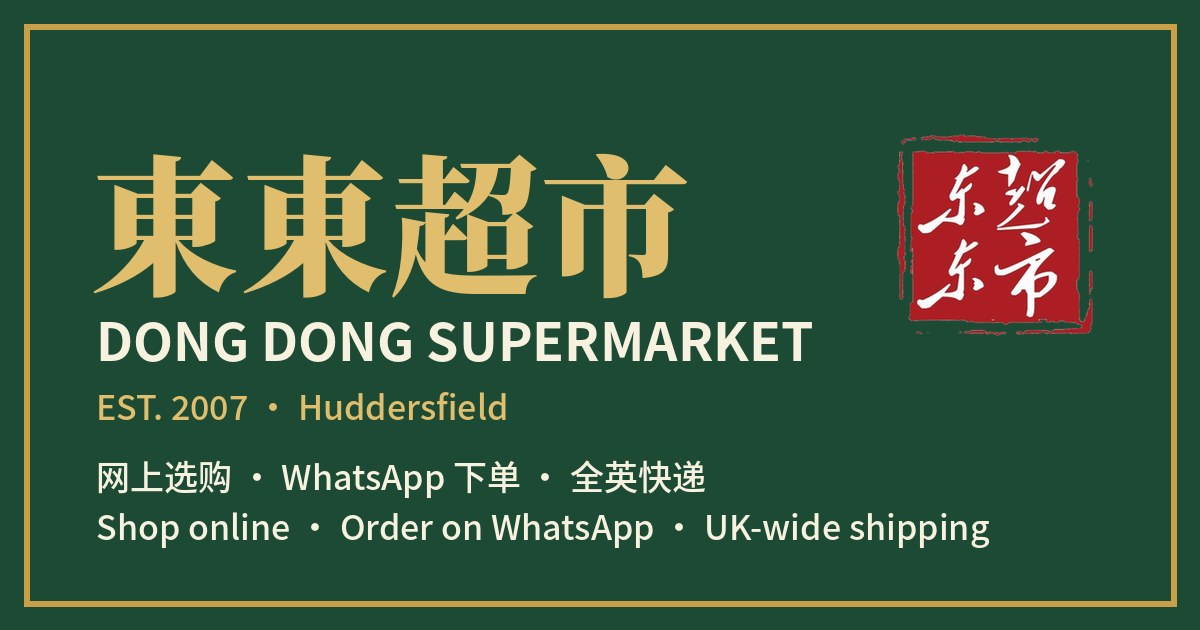
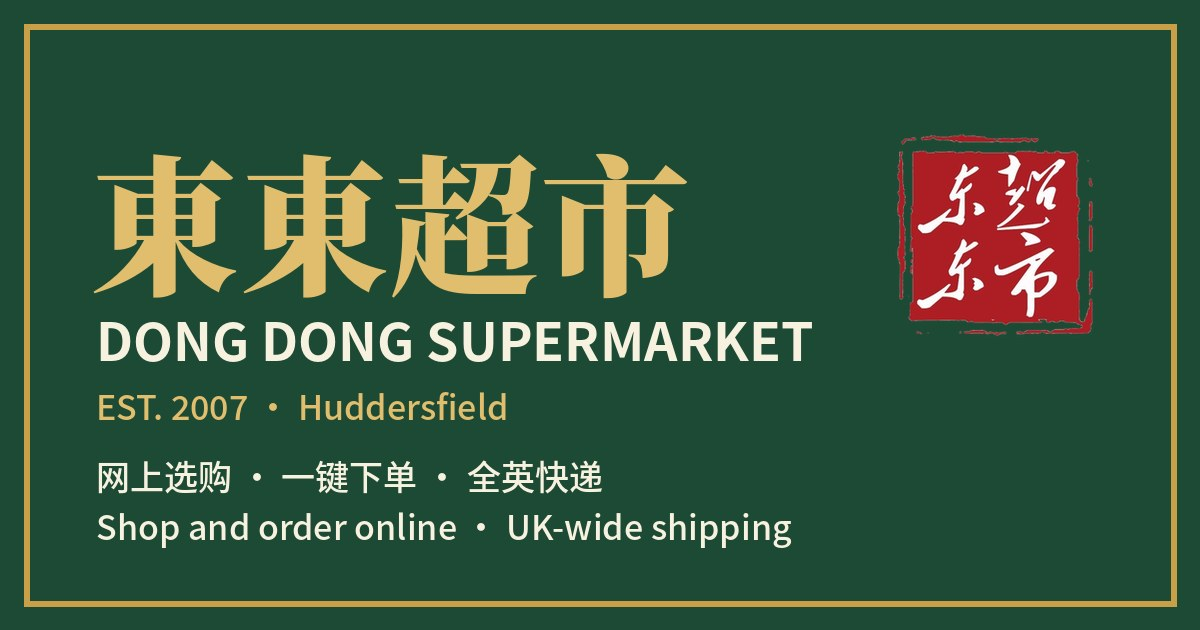
下单说法统一：网上下单、一键下单、订单自动填好
Claude-Session: https://claude.ai/code/session_01EapkdAZuY1J5DZKGNmtVd8

Changed region(s): [[0.1542, 0.8143, 0.8325, 0.8746], [0.2158, 0.7238, 0.5858, 0.7841]]

diff --git a/index.html b/index.html
@@ -4,7 +4,7 @@
 <meta charset="utf-8">
 <meta name="viewport" content="width=device-width,initial-scale=1,viewport-fit=cover">
 <title>東東超市 Dong Dong Supermarket · Huddersfield</title>
-<meta name="description" content="東東超市 Dong Dong Supermarket，Huddersfield 亚洲超市，始于 2007。网上看商品和价格，WhatsApp 下单，到店自取、本地送货、全英快递。Asian supermarket in Huddersfield since 2007 — browse online, order on WhatsApp, collect, local delivery or UK-wide shipping.">
+<meta name="description" content="東東超市 Dong Dong Supermarket，Huddersfield 亚洲超市，始于 2007。网上看商品和价格，网上一键下单，到店自取、本地送货、全英快递。Asian supermarket in Huddersfield since 2007 — browse and order online, collect, local delivery or UK-wide shipping.">
 <link rel="canonical" href="https://dongdong.co.uk/">
 <link rel="icon" type="image/png" href="favicon.png?v=2">
 <link rel="apple-touch-icon" href="apple-touch-icon.png?v=2">
@@ -14,7 +14,7 @@
 <meta property="og:type" content="website">
 <meta property="og:site_name" content="東東超市 Dong Dong Supermarket">
 <meta property="og:title" content="東東超市 Dong Dong Supermarket · Huddersfield">
-<meta property="og:description" content="网上选购 · WhatsApp 下单 · 全英快递 | Shop online, order on WhatsApp, UK-wide shipping">
+<meta property="og:description" content="网上选购 · 一键下单 · 全英快递 | Shop and order online, UK-wide shipping">
 <meta property="og:url" content="https://dongdong.co.uk/">
 <meta property="og:image" content="https://dongdong.co.uk/og-image.jpg">
 <meta property="og:image:width" content="1200"><meta property="og:image:height" content="630">
@@ -505,8 +505,8 @@ legend{font-family:var(--en-display);font-size:13px;letter-spacing:.1em;text-tra
     <h2><span class="lz">商品与价格</span> <span class="le en">Products &amp; Prices</span></h2>
     <label class="search"><input id="q" type="search" placeholder="搜索商品 Search products" aria-label="搜索商品 Search products"></label>
   </div>
-  <p class="howto"><span><b><span class="lz">WhatsApp 下单</span><span class="leo">Order on WhatsApp:</span></b><span class="lb"> Order on WhatsApp：</span><span class="lz lzc">：</span></span><span>① <span class="lz">选商品加入购物车</span> <span class="le">Add items</span></span><span>② <span class="lz">选到店自取或送货</span> <span class="le">Pickup or delivery</span></span><span>③ <span class="lz">发送订单，我们回复确认</span> <span class="le">Send, we'll confirm</span></span><span class="nopill">✓ <span class="lz">无需注册 · 无需下载 App · 无需提供任何银行信息</span><span class="lb"> · </span><span class="le">No sign-up · No app download · No bank or card details needed</span></span></p>
-  <details class="help" id="help"><summary><span class="lz">第一次下单？查看详细步骤</span><span class="lb"> · </span><span class="le">First time? See how to order</span></summary><ol class="hsteps"><li><b class="hs"><span class="lz">打开网站</span><span class="lb"> · </span><span class="le">Open the website</span></b><span class="lz blk">用手机扫店里的二维码，或在浏览器输入 <b>dongdong.co.uk</b>。右上方可以选择 中文 / English / 中英双语。</span><span class="le blk">Scan the QR code in store or type <b>dongdong.co.uk</b> in your browser. Choose 中文, English or both at the top.</span></li><li><b class="hs"><span class="lz">找到商品</span><span class="lb"> · </span><span class="le">Find products</span></b><span class="lz blk">左边选分区（如调料干货区），点开后选小类（如酱油）。也可以在搜索框里输入中文、拼音或英文，比如“水饺”、“jiaozi”或“dumpling”。点商品图片可以看大图。</span><span class="le blk">Pick a section on the left, then a category. Or search in Chinese, pinyin or English, e.g. "dumpling". Tap a photo to see it bigger.</span></li><li><b class="hs"><span class="lz">加入购物车</span><span class="lb"> · </span><span class="le">Add to basket</span></b><span class="lz blk">点商品下面的“加入购物车”。加入后用 − 和 + 改数量。灰色“售罄”的商品不能加入。</span><span class="le blk">Tap "Add" under the item. Use − and + to change the amount. Items marked "Sold out" can't be added.</span></li><li><b class="hs"><span class="lz">打开购物车</span><span class="lb"> · </span><span class="le">Open your basket</span></b><span class="lz blk">选好后，点屏幕底部绿色条上的“查看购物车”。绿色条上会显示件数、合计，以及还差多少可以免费配送。</span><span class="le blk">When you're done, tap "View basket" on the green bar at the bottom. It shows your total and how much more you need for free delivery.</span></li><li><b class="hs"><span class="lz">选择取货方式</span><span class="lb"> · </span><span class="le">Collection or delivery</span></b><span class="lz blk"><b>到店自取</b>：直接到店付款。<br><b>送货上门</b>：选择送货区域。大学周边学生宿舍满 £15 免费配送，3 英里内满 £40 免费配送，3 英里以外运费在 WhatsApp 商量。金额不够时只能到店自取。</span><span class="le blk"><b>Collect in store</b>: pay when you collect.<br><b>Delivery</b>: choose your area. Free to student halls near the University over £15, free within 3 miles over £40, further away by arrangement. Smaller orders are collection only.</span></li><li><b class="hs"><span class="lz">填写信息</span><span class="lb"> · </span><span class="le">Fill in your details</span></b><span class="lz blk">填写姓名和电话。送货要再填地址、邮编和付款方式。可以写希望的取货或送货时间，以及备注（比如“不要辣的”）。</span><span class="le blk">Enter your name and phone number. For delivery, add your address, postcode and payment method. You can add a preferred time and notes.</span></li><li><b class="hs"><span class="lz">用 WhatsApp 发送</span><span class="lb"> · </span><span class="le">Send on WhatsApp</span></b><span class="lz blk">点“用 WhatsApp 发送订单”，手机会打开 WhatsApp，订单内容已经写好。<b>一定要在 WhatsApp 里再点一次发送 ➤</b>，否则我们收不到订单。</span><span class="le blk">Tap "Send order on WhatsApp". WhatsApp opens with your order ready. <b>Tap send ➤ in WhatsApp</b>, or we won't receive it.</span></li><li><b class="hs"><span class="lz">等待确认</span><span class="lb"> · </span><span class="le">Wait for our reply</span></b><span class="lz blk">我们会在 WhatsApp 上回复确认，订单才算成立。订单开头有订单编号（如 DD-0911-5438），有问题时告诉我们这个编号就行。</span><span class="le blk">Your order is confirmed when we reply on WhatsApp. Quote your order number (e.g. DD-0911-5438) if you have any questions.</span></li></ol><p class="htip"><span class="lz">没有 WhatsApp，或者不会用？可以直接打电话 <b>07546 185999</b>，或到店选购。</span><span class="le blk">No WhatsApp? Call us on <b>07546 185999</b> or visit the shop.</span></p></details>
+  <p class="howto"><span><b><span class="lz">网上下单</span><span class="leo">Order online:</span></b><span class="lb"> Order online：</span><span class="lz lzc">：</span></span><span>① <span class="lz">选商品加入购物车</span> <span class="le">Add items</span></span><span>② <span class="lz">选到店自取或送货</span> <span class="le">Pickup or delivery</span></span><span>③ <span class="lz">一键下单，订单自动填好，我们回复确认</span> <span class="le">One tap to order, we'll confirm</span></span><span class="nopill">✓ <span class="lz">无需注册 · 无需下载 App · 无需提供任何银行信息</span><span class="lb"> · </span><span class="le">No sign-up · No app download · No bank or card details needed</span></span></p>
+  <details class="help" id="help"><summary><span class="lz">第一次下单？查看详细步骤</span><span class="lb"> · </span><span class="le">First time? See how to order</span></summary><ol class="hsteps"><li><b class="hs"><span class="lz">打开网站</span><span class="lb"> · </span><span class="le">Open the website</span></b><span class="lz blk">用手机扫店里的二维码，或在浏览器输入 <b>dongdong.co.uk</b>。右上方可以选择 中文 / English / 中英双语。</span><span class="le blk">Scan the QR code in store or type <b>dongdong.co.uk</b> in your browser. Choose 中文, English or both at the top.</span></li><li><b class="hs"><span class="lz">找到商品</span><span class="lb"> · </span><span class="le">Find products</span></b><span class="lz blk">左边选分区（如调料干货区），点开后选小类（如酱油）。也可以在搜索框里输入中文、拼音或英文，比如“水饺”、“jiaozi”或“dumpling”。点商品图片可以看大图。</span><span class="le blk">Pick a section on the left, then a category. Or search in Chinese, pinyin or English, e.g. "dumpling". Tap a photo to see it bigger.</span></li><li><b class="hs"><span class="lz">加入购物车</span><span class="lb"> · </span><span class="le">Add to basket</span></b><span class="lz blk">点商品下面的“加入购物车”。加入后用 − 和 + 改数量。灰色“售罄”的商品不能加入。</span><span class="le blk">Tap "Add" under the item. Use − and + to change the amount. Items marked "Sold out" can't be added.</span></li><li><b class="hs"><span class="lz">打开购物车</span><span class="lb"> · </span><span class="le">Open your basket</span></b><span class="lz blk">选好后，点屏幕底部绿色条上的“查看购物车”。绿色条上会显示件数、合计，以及还差多少可以免费配送。</span><span class="le blk">When you're done, tap "View basket" on the green bar at the bottom. It shows your total and how much more you need for free delivery.</span></li><li><b class="hs"><span class="lz">选择取货方式</span><span class="lb"> · </span><span class="le">Collection or delivery</span></b><span class="lz blk"><b>到店自取</b>：直接到店付款。<br><b>送货上门</b>：选择送货区域。大学周边学生宿舍满 £15 免费配送，3 英里内满 £40 免费配送，3 英里以外运费在 WhatsApp 商量。金额不够时只能到店自取。</span><span class="le blk"><b>Collect in store</b>: pay when you collect.<br><b>Delivery</b>: choose your area. Free to student halls near the University over £15, free within 3 miles over £40, further away by arrangement. Smaller orders are collection only.</span></li><li><b class="hs"><span class="lz">填写信息</span><span class="lb"> · </span><span class="le">Fill in your details</span></b><span class="lz blk">填写姓名和电话。送货要再填地址、邮编和付款方式。可以写希望的取货或送货时间，以及备注（比如“不要辣的”）。</span><span class="le blk">Enter your name and phone number. For delivery, add your address, postcode and payment method. You can add a preferred time and notes.</span></li><li><b class="hs"><span class="lz">一键下单</span><span class="lb"> · </span><span class="le">Place your order</span></b><span class="lz blk">点“一键下单”，订单会自动填好，不用自己复制。手机会打开 WhatsApp，<b>点一下发送 ➤ 就完成了</b>。</span><span class="le blk">Tap "Place order". Your order is filled in for you, no copying needed. WhatsApp opens: <b>just tap send ➤</b> and you're done.</span></li><li><b class="hs"><span class="lz">等待确认</span><span class="lb"> · </span><span class="le">Wait for our reply</span></b><span class="lz blk">我们会在 WhatsApp 上回复确认，订单才算成立。订单开头有订单编号（如 DD-0911-5438），有问题时告诉我们这个编号就行。</span><span class="le blk">Your order is confirmed when we reply on WhatsApp. Quote your order number (e.g. DD-0911-5438) if you have any questions.</span></li></ol><p class="htip"><span class="lz">没有 WhatsApp，或者不会用？可以直接打电话 <b>07546 185999</b>，或到店选购。</span><span class="le blk">No WhatsApp? Call us on <b>07546 185999</b> or visit the shop.</span></p></details>
   <div class="shop">
   <div class="zones" id="zones" role="group" aria-label="分区 Store sections"></div>
   <div class="shopmain">
@@ -591,8 +591,8 @@ legend{font-family:var(--en-display);font-size:13px;letter-spacing:.1em;text-tra
     <p class="notice" id="alcNote" hidden><span class="lz"><b>购物车里有须年满 18 岁才能购买的商品（如酒类、刀具、燃气罐）。</b>取货或送货时我们可能查看证件，未满 18 岁不予出售。</span><span class="le blk">Your basket contains age-restricted items (such as alcohol, knives or gas canisters). You must be 18 or over. We may ask for ID on collection or delivery.</span></p>
     <p class="notice"><span class="lz"><b>过敏原：</b>如需了解商品的过敏原信息，请在下单前联系我们 07546 185999。</span><span class="le blk">For allergen information on any product, please contact us before ordering.</span></p>
     <p class="err" id="err" hidden></p>
-    <a class="wa" id="sendWa" href="https://wa.me/447546185999" target="_blank" rel="noopener"><span class="lz">用 WhatsApp 发送订单</span> <span class="le">Send order on WhatsApp</span></a>
-    <p class="note"><span class="lz">发送后会打开 WhatsApp，请在 WhatsApp 里点"发送"。订单以我们回复确认为准，价格以店内为准。</span><span class="le blk">WhatsApp will open with your order. Tap send there. Your order is confirmed once we reply.</span></p>
+    <a class="wa" id="sendWa" href="https://wa.me/447546185999" target="_blank" rel="noopener"><span class="lz">一键下单</span> <span class="le">Place order</span></a>
+    <p class="note"><span class="lz">订单会自动填好，在打开的 WhatsApp 里点一下发送 ➤ 就行。订单以我们回复确认为准，价格以店内为准。</span><span class="le blk">Your order is filled in for you. Just tap send ➤ in WhatsApp. Your order is confirmed once we reply.</span></p>
   </div>
 </div>
 
@@ -2112,7 +2112,7 @@ function buildSlides(){
   const nw=PRODUCTS.filter(isNew).sort((a,b)=>ukDate(b.new)-ukDate(a.new));
   if(false&&nw.length)out.push({cls:"s-new",eye:B("新到","NEW IN"),title:ZO("新到货品","New arrivals"),sub:BS(`最近到店 ${nw.length} 样`,"Just arrived"),items:nw.slice(0,8),go:"new",btn:B("查看全部新货","See all new")});
   NOTICES.filter(n=>!n.until||today0<=ukDate(n.until)).forEach(n=>out.push({cls:"s-text s-new",eye:n.tag||B("到货通知","NOTICE"),title:ZO(n.zh,n.en||n.zh),sub:n.en?`<span class="lb">${n.en}</span>`:""}));
-  out.push({cls:"s-text",eye:B("WhatsApp 下单","ORDER"),title:ZO("在网上选好，WhatsApp 发给我们","Choose online, send your order on WhatsApp"),list:[["1",BS("选商品加入购物车","Add items to your basket")],["2",BS("选到店自取或送货上门","Collect or delivery")],["3",BS("发送订单，我们回复确认","Send, we'll confirm")]],go:"order",btn:B("开始选购","Start shopping")});
+  out.push({cls:"s-text",eye:B("网上下单","ORDER ONLINE"),title:ZO("网上选好，一键下单","Choose online, order in one tap"),list:[["1",BS("选商品加入购物车","Add items to your basket")],["2",BS("选到店自取或送货上门","Collect or delivery")],["3",BS("一键下单，订单自动填好，我们回复确认","One tap to order, we'll confirm")]],go:"order",btn:B("开始选购","Start shopping")});
   out.push({cls:"s-text",eye:B("营业时间","HOURS"),title:BS("每天营业","Open 7 days"),list:[["",`${B("周一至周六","Mon–Sat")}  11:00 – 19:00`],["",`${B("周日","Sun")}  11:00 – 18:00`],["",`${B("电话","Phone")} / WhatsApp  07546 185999`]],go:"visit",btn:B("到店信息","Visit us")});
   return out;}
 function renderPromo(){
